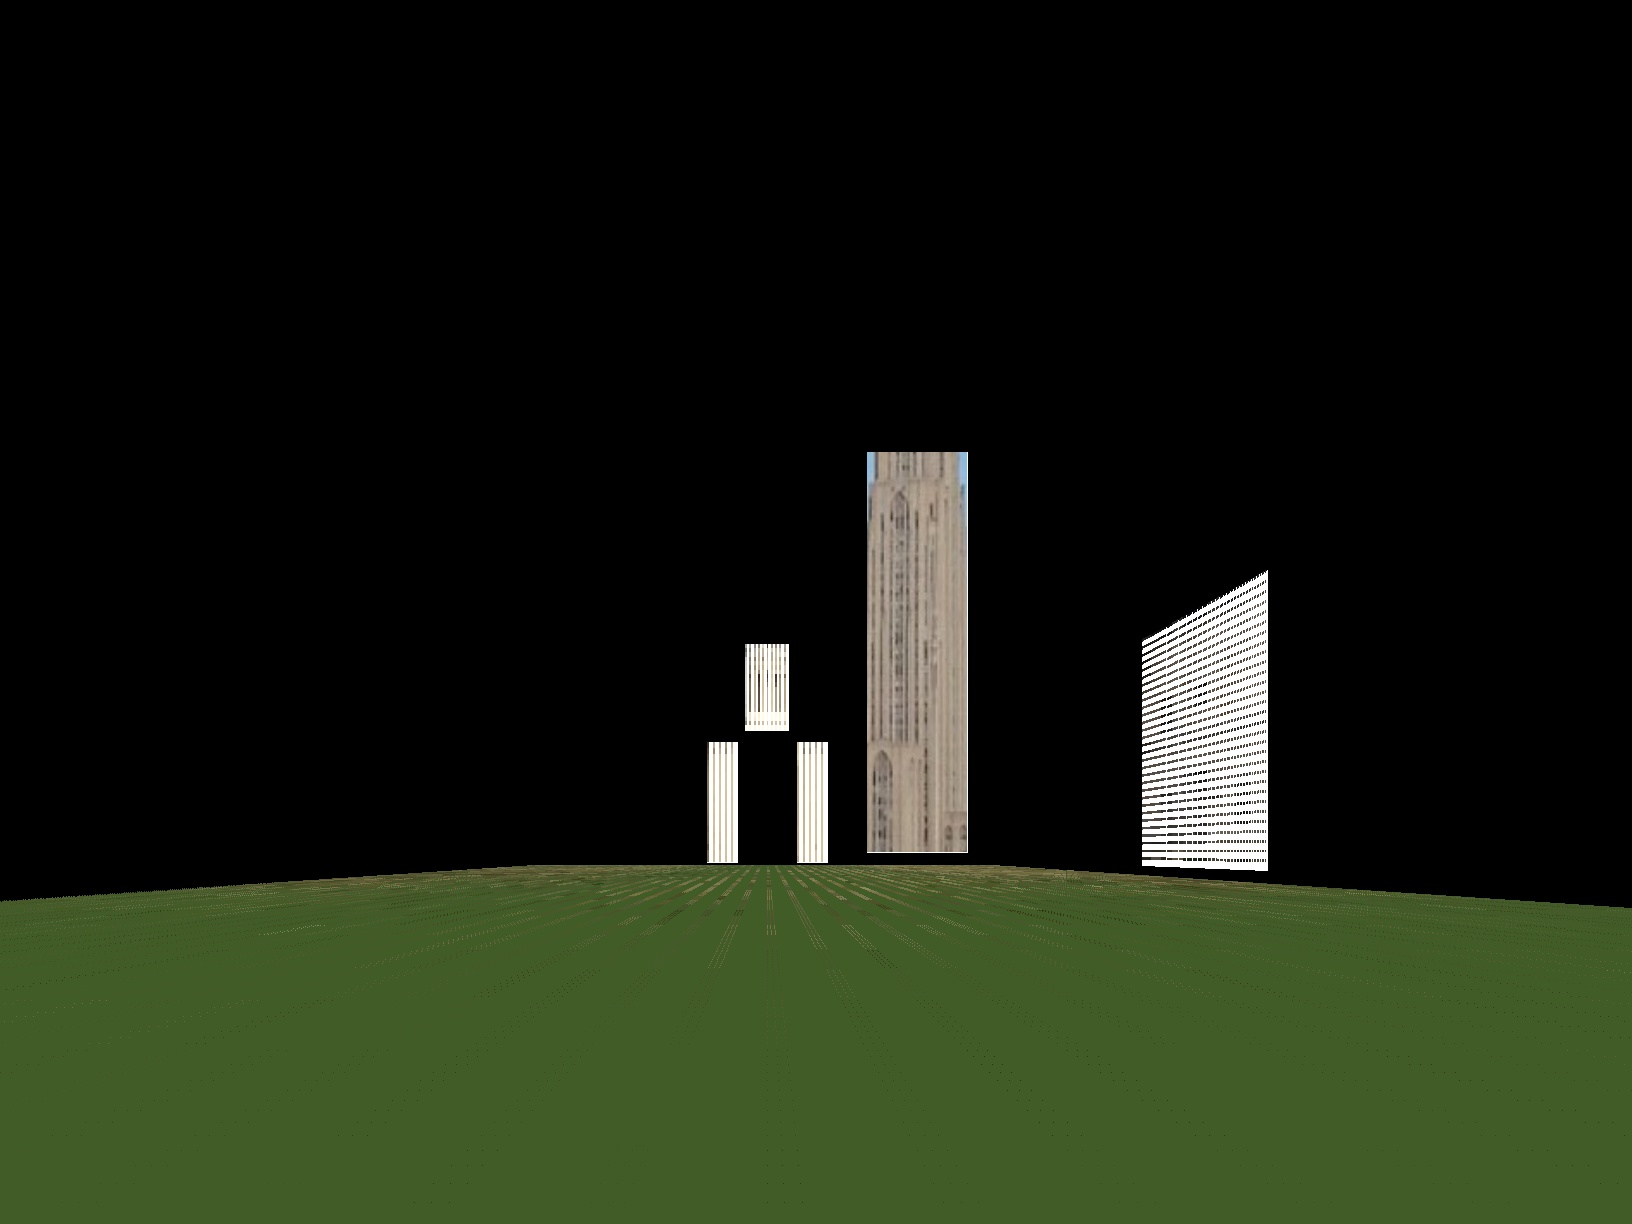
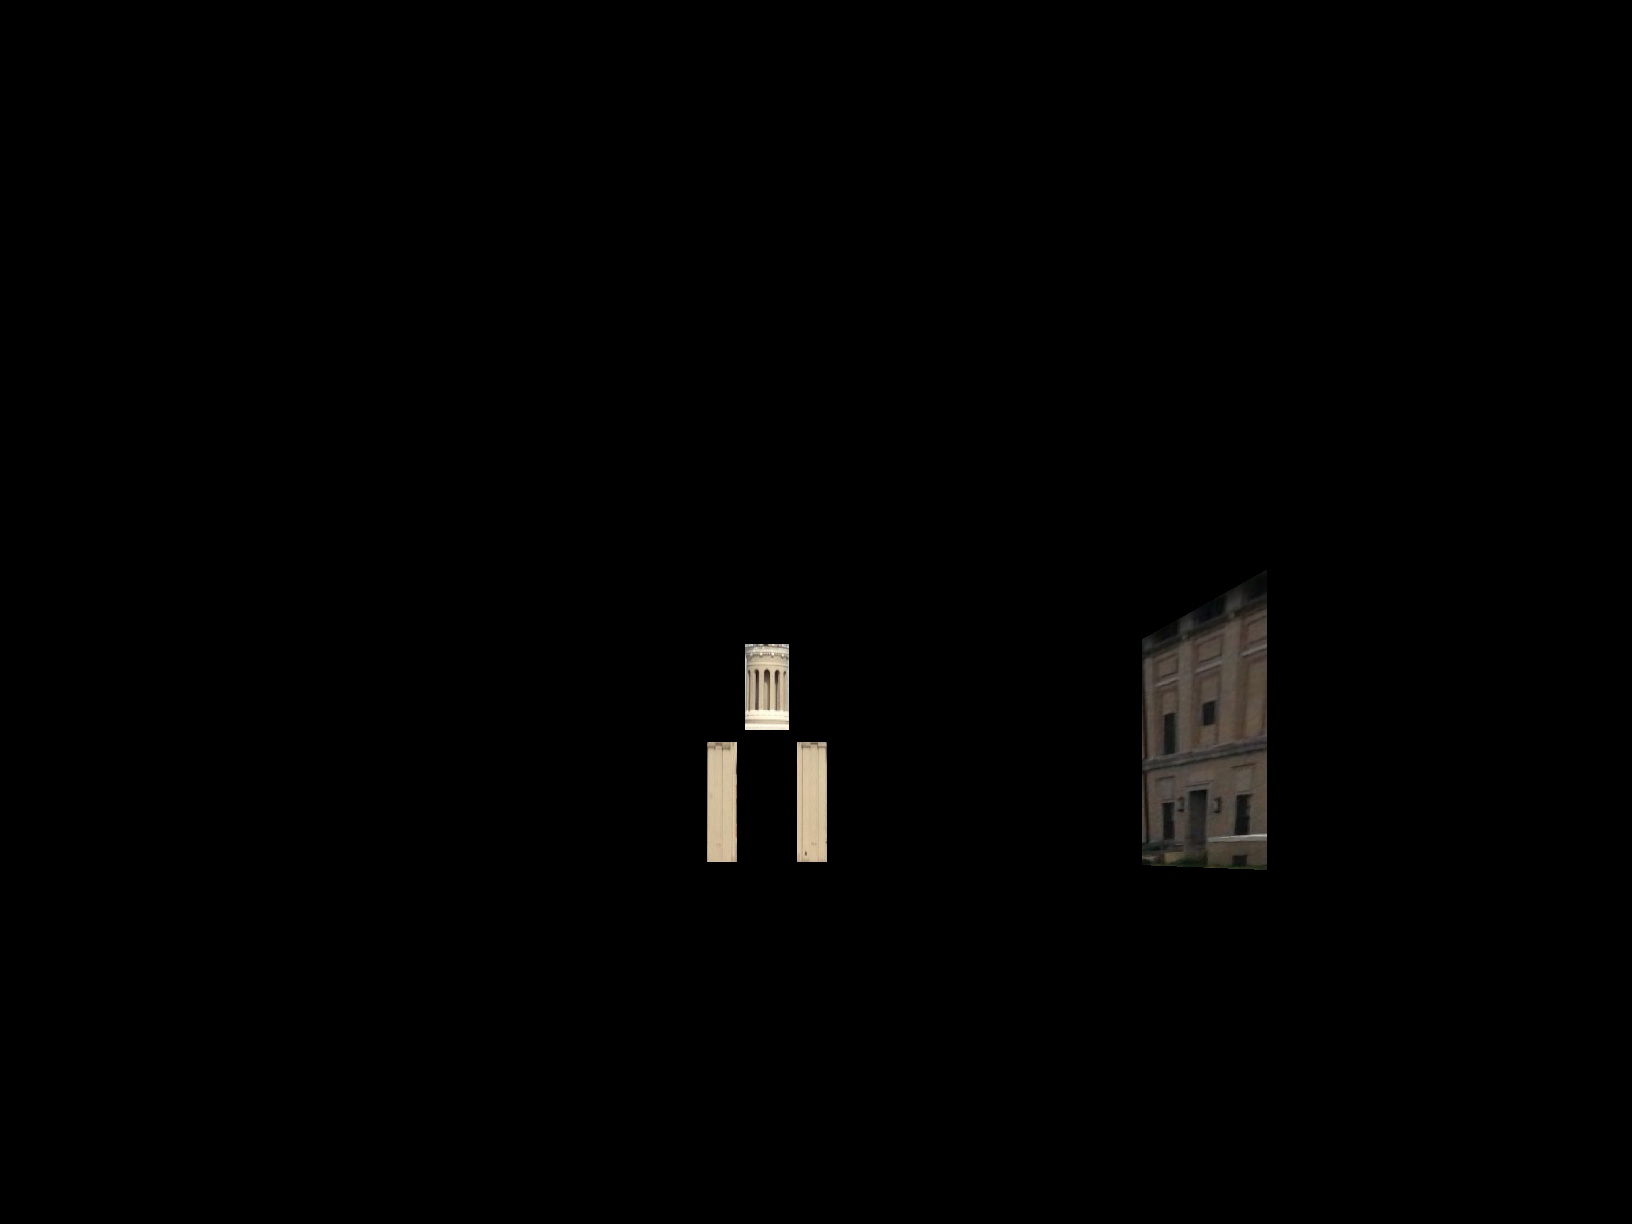
finer texture rendering

diff --git a/main.py b/main.py
@@ -71,9 +71,11 @@ def generate3DpointsRectangle(numPoints, planeDirection):
     del array_2d_points_raw[:numPoints]
     del array_3d_points_raw[:numPoints]
 
+    # Painting with rectangles
     pointsMatrix = np.float32([array_points_3d])
     camera = np.matrix([[300.0, 0, 767],[0, 300.0, 850],[0, 0, 1]])
     resultPoints = cv2.projectPoints(pointsMatrix, (0, 0, 0), (0, 2, 0), camera, 0)
+    '''
     point1 = resultPoints[0][0][0]
     point2 = resultPoints[0][1][0]
     point3 = resultPoints[0][2][0]
@@ -83,14 +85,14 @@ def generate3DpointsRectangle(numPoints, planeDirection):
     corner_points.append(resultPoints[0][2][0])
     corner_points.append(resultPoints[0][3][0])
     polygon = np.array([point1, point2, point3, point4 ], np.int32)
-    if planeDirection != 'up':
-        cv2.fillConvexPoly(resultPicture, polygon, [255,255,255])
-    else :
+    if planeDirection == 'up':
         cv2.fillConvexPoly(resultPicture, polygon, [39,92,66])
-    cv2.imwrite("test.jpg", resultPicture)
-
+    else:
+        cv2.fillConvexPoly(resultPicture, polygon, [141,175,204])
+    '''
     scene_width, scene_height = getSceneSize(array_points_3d, planeDirection)
-
+    scene_width *= 20
+    scene_height *= 20
     # Obtain a warped transformation of 2d image into size of 3d image
     source = np.array(array_points_2d, np.float32)
 
@@ -108,49 +110,25 @@ def generate3DpointsRectangle(numPoints, planeDirection):
             # Assign pixel color of warped transformation to 3d point
             if planeDirection == 'front':
                 point1 = array_points_3d[0]
+                pixel_color = output[j][i]
                 # point 1 = top left corner of plane
                 # point 1 add scene width in the x direction
                 # point 1 add scene height in the y direction
-                # point 1 = output[j][i]
-                pixel_color = output[j][i]
-                for dy in range(3):
-                    dy = 0.1 * dy
-                    array_3d_points_with_color.append([point1[0] + i + dy, point1[1] + j +0.0, point1[2], pixel_color[0], pixel_color[1], pixel_color[2]])
-                    array_3d_points_with_color.append([point1[0] + i + dy, point1[1] + j +0.1, point1[2], pixel_color[0], pixel_color[1], pixel_color[2]])
-                    array_3d_points_with_color.append([point1[0] + i + dy, point1[1] + j +0.2, point1[2], pixel_color[0], pixel_color[1], pixel_color[2]])
-                    array_3d_points_with_color.append([point1[0] + i + dy, point1[1] + j +0.3, point1[2], pixel_color[0], pixel_color[1], pixel_color[2]])
-                    array_3d_points_with_color.append([point1[0] + i + dy, point1[1] + j +0.4, point1[2], pixel_color[0], pixel_color[1], pixel_color[2]])
-                    array_3d_points_with_color.append([point1[0] + i + dy, point1[1] + j +0.5, point1[2], pixel_color[0], pixel_color[1], pixel_color[2]])
-                    array_3d_points_with_color.append([point1[0] + i + dy, point1[1] + j +0.6, point1[2], pixel_color[0], pixel_color[1], pixel_color[2]])
-                    array_3d_points_with_color.append([point1[0] + i + dy, point1[1] + j +0.7, point1[2], pixel_color[0], pixel_color[1], pixel_color[2]])
-                    array_3d_points_with_color.append([point1[0] + i + dy, point1[1] + j +0.8, point1[2], pixel_color[0], pixel_color[1], pixel_color[2]])
-                    array_3d_points_with_color.append([point1[0] + i + dy, point1[1] + j +0.9, point1[2], pixel_color[0], pixel_color[1], pixel_color[2]])
+                array_3d_points_with_color.append([point1[0] + (i/20.0), point1[1] + (j/20.0), point1[2], pixel_color[0], pixel_color[1], pixel_color[2]])
 
             if planeDirection == 'left':
                 point1 = array_points_3d[0]
+                pixel_color = output[j][i]
                 # point 1 = top left corner of plane
                 # point 1 add scene width in the z direction
                 # point 1 add scene height in the y direction
-                # point 1 = output[j][i]
-                pixel_color = output[j][i]
-                for dy in range(3):
-                    dy = 0.1 * dy
-                    array_3d_points_with_color.append([point1[0], point1[1] + j + dy, point1[2] - i, pixel_color[0], pixel_color[1], pixel_color[2]])
-                    array_3d_points_with_color.append([point1[0], point1[1] + j + dy, point1[2] - i - 0.1, pixel_color[0], pixel_color[1], pixel_color[2]])
-                    array_3d_points_with_color.append([point1[0], point1[1] + j + dy, point1[2] - i - 0.2, pixel_color[0], pixel_color[1], pixel_color[2]])
-                    array_3d_points_with_color.append([point1[0], point1[1] + j + dy, point1[2] - i - 0.3, pixel_color[0], pixel_color[1], pixel_color[2]])
-                    array_3d_points_with_color.append([point1[0], point1[1] + j + dy, point1[2] - i - 0.4, pixel_color[0], pixel_color[1], pixel_color[2]])
-                    array_3d_points_with_color.append([point1[0], point1[1] + j + dy, point1[2] - i - 0.5, pixel_color[0], pixel_color[1], pixel_color[2]])
-                    array_3d_points_with_color.append([point1[0], point1[1] + j + dy, point1[2] - i - 0.6, pixel_color[0], pixel_color[1], pixel_color[2]])
-                    array_3d_points_with_color.append([point1[0], point1[1] + j + dy, point1[2] - i - 0.7, pixel_color[0], pixel_color[1], pixel_color[2]])
-                    array_3d_points_with_color.append([point1[0], point1[1] + j + dy, point1[2] - i - 0.8, pixel_color[0], pixel_color[1], pixel_color[2]])
-                    array_3d_points_with_color.append([point1[0], point1[1] + j + dy, point1[2] - i - 0.9, pixel_color[0], pixel_color[1], pixel_color[2]])
-                print "Appended point: " + str(array_3d_points_with_color[len(array_3d_points_with_color)-1])
+                array_3d_points_with_color.append([point1[0], point1[1] + (j/20.0), point1[2] - (i/20.0), pixel_color[0], pixel_color[1], pixel_color[2]])
+                #print "Appended point: " + str(array_3d_points_with_color[len(array_3d_points_with_color)-1])
+                '''
             if planeDirection == 'right':
                 # point 1 = top left corner of plane
                 # point 1 add scene width in the -z direction
                 # point 1 add scene height in the y direction
-                # point 1 = output[j][i]
                 pixel_color = output[j][i]
                 array_3d_points_with_color.append([1,2,3,4,5,6])
             if planeDirection == 'up':
@@ -158,29 +136,20 @@ def generate3DpointsRectangle(numPoints, planeDirection):
                 # point 1 = top left corner of plane
                 # point 1 add scene width in the x direction
                 # point 1 add scene height in the -z direction
-                # point 1 = output[j][i]
                 pixel_color = output[j][i]
-                for dy in range(3):
-                    dy = 0.1 * dy
-                    array_3d_points_with_color.append([point1[0] + i + dy, point1[1], point1[2] - j - 0.0, pixel_color[0], pixel_color[1], pixel_color[2]])
-                    array_3d_points_with_color.append([point1[0] + i + dy, point1[1], point1[2] - j - 0.1, pixel_color[0], pixel_color[1], pixel_color[2]])
-                    array_3d_points_with_color.append([point1[0] + i + dy, point1[1], point1[2] - j - 0.2, pixel_color[0], pixel_color[1], pixel_color[2]])
-                    array_3d_points_with_color.append([point1[0] + i + dy, point1[1], point1[2] - j - 0.3, pixel_color[0], pixel_color[1], pixel_color[2]])
-                    array_3d_points_with_color.append([point1[0] + i + dy, point1[1], point1[2] - j - 0.4, pixel_color[0], pixel_color[1], pixel_color[2]])
-                    array_3d_points_with_color.append([point1[0] + i + dy, point1[1], point1[2] - j - 0.5, pixel_color[0], pixel_color[1], pixel_color[2]])
-                    array_3d_points_with_color.append([point1[0] + i + dy, point1[1], point1[2] - j - 0.6, pixel_color[0], pixel_color[1], pixel_color[2]])
-                    array_3d_points_with_color.append([point1[0] + i + dy, point1[1], point1[2] - j - 0.7, pixel_color[0], pixel_color[1], pixel_color[2]])
-                    array_3d_points_with_color.append([point1[0] + i + dy, point1[1], point1[2] - j - 0.8, pixel_color[0], pixel_color[1], pixel_color[2]])
-                    array_3d_points_with_color.append([point1[0] + i + dy, point1[1], point1[2] - j - 0.9, pixel_color[0], pixel_color[1], pixel_color[2]])
-                #print "Appended point: " + str(array_3d_points_with_color[len(array_3d_points_with_color)-1])
+                for m in range(10):
+                    dx = 0.1 * m
+                    for n in range(10):
+                        dz = 0.1 * n
+                        array_3d_points_with_color.append([point1[0] + i + dx, point1[1], point1[2] - j - dz, pixel_color[0], pixel_color[1], pixel_color[2]])
+                        #print "Appended point: " + str(array_3d_points_with_color[len(array_3d_points_with_color)-1])
             if planeDirection == 'down':
                 # point 1 = top left corner of plane
                 # point 1 add scene width in the x direction
                 # point 1 add scene height in the z direction
-                # point 1 = output[j][i]
                 pixel_color = output[j][i]
                 array_3d_points_with_color.append([1,2,3,4,5,6])
-
+    '''
     # Generate side walls
 
 # Given 4 points and where the plane is facing, function returns plane width and height
@@ -217,7 +186,6 @@ def getSceneSize(points, planeDirection):
         sceneHeight = abs(points[2][2] - points[0][2])
         return sceneWidth, sceneHeight
 
-
 def colour2Dpoint(point_2d, point_3d):
     if zBuffer[point_2d[0]][point_2d[1]] == 0 or point_3d[2] > zBuffer[point_2d[0]][point_2d[1]]:
         resultImg[point_2d[0]][point_2d[1]] = point_3d[3:]
@@ -227,27 +195,10 @@ def colourAll2DPoints(arr_2dPts, arr_3dPts):
     for x in range (0, len(arr_2dPts)):
         colour2Dpoint(arr_2dPts[x], arr_3dPts[x])
 
-def rotateImage(image, angle):
-    image_center = tuple(np.array(image.shape)/2)
-    rot_mat = cv2.getRotationMatrix2D(image_center,angle, 1)
-    result = cv2.warpAffine(image, rot_mat, image.shape,flags=cv2.INTER_LINEAR)
-    return result
-
-global clickedList
-global cornersList
-global angleList
 global grayscalePicture
 global colorPicture
 global picHeight
 global picWidth
-
-global tempList
-tempList = []
-
-numPlanes = 0
-clickedList = []
-cornersList = []
-angleList = []
 
 grayscalePicture = cv2.imread("assets/project.jpeg", cv2.CV_LOAD_IMAGE_GRAYSCALE)
 baseImage = cv2.imread("assets/project.jpeg", cv2.CV_LOAD_IMAGE_COLOR)
@@ -278,20 +229,7 @@ for x in range(0, len(resultPoints[0])):
     if resultPoints[0][x][0][1] < picHeight and resultPoints[0][x][0][0] < picWidth and resultPoints[0][x][0][1]  > 0 and resultPoints[0][x][0][0] > 0:
         #resultPicture[resultPoints[0][x][0][1]][resultPoints[0][x][0][0]] = colorPicture[pointsMatrix[x][1],pointsMatrix[x][0]]
         resultPicture[int(resultPoints[0][x][0][1])][int(resultPoints[0][x][0][0])] = [array_3d_points_with_color[x][3], array_3d_points_with_color[x][4], array_3d_points_with_color[x][5]]
-'''
-print resultPoints[0]
-# For each point, check if in bounds and print, else nothing. Note that out of bounds on picture will cause wrap around.
-for x in range(0, len(resultPoints[0])):
-    print str(x) + "/" + str(len(resultPoints[0])),
-    print resultPoints
-    if resultPoints[0][x][0][1]+612 < picHeight and resultPoints[0][x][0][0]+816 < picWidth and resultPoints[0][x][0][1]+612  > 0 and resultPoints[0][x][0][0]+816 > 0:
-        resultPicture[resultPoints[0][x][0][1]+612][resultPoints[0][x][0][0]+816] = colorPicture[pointsMatrix[x][1]+612,pointsMatrix[x][0]+816]
-'''
 
 # Resultant picture
 cv2.imshow("qwe", resultPicture)
 cv2.imwrite("result.jpg", resultPicture);
-'''
-if cv2.waitKey(0) == 27:
-    cv2.destroyAllWindows()
-'''
